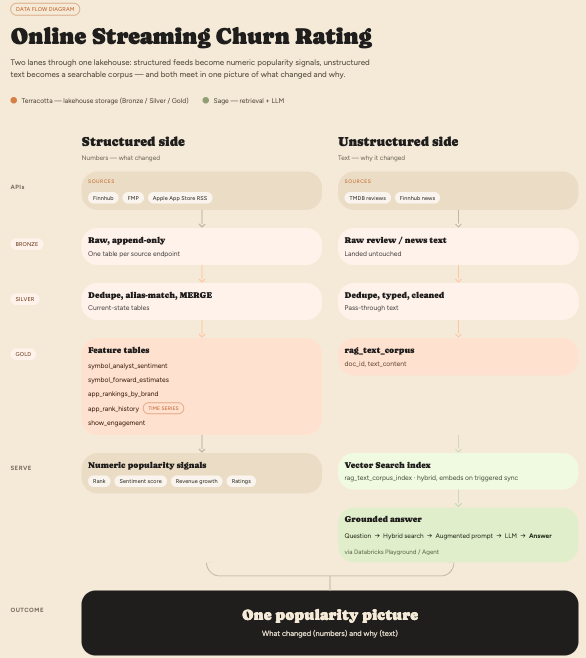
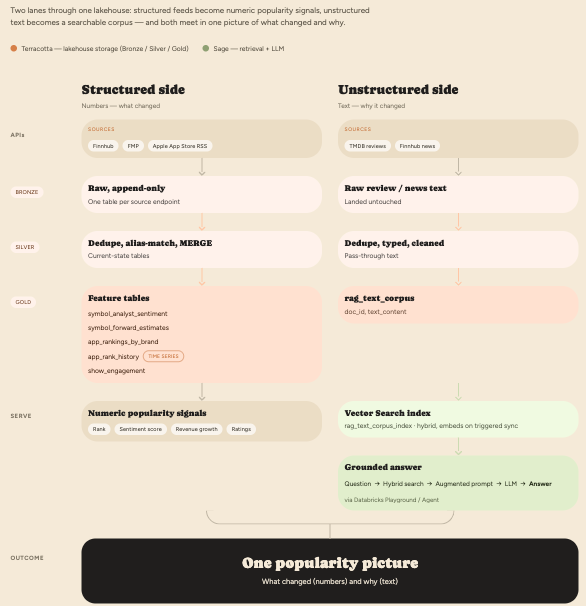
Polish: drop stale diagram title, tidy orchestration wording

diff --git a/README.md b/README.md
@@ -69,7 +69,7 @@ next stage:
 
 `ingest -> bronze -> DQ(bronze) -> silver -> DQ(silver) -> gold -> DQ(gold)`
 
-It runs daily on a schedule and has a green run history across weeks of runs. The RAG corpus and vector index are built (`rag_text_corpus`, `rag_text_corpus_index`); the RAG corpus, vector index, and prediction agent all run end to end (the agent writes rise/hold/fall popularity calls to `predictions`); folding the agent in as a final task in this scheduled job is the remaining step.
+It runs daily on a schedule and has a green run history across weeks of runs. The RAG corpus, vector index, and prediction agent all run end to end (the agent writes rise/hold/fall popularity calls to `predictions`); folding the agent in as a final task in this scheduled job is the remaining step.
 
 ![Workflow DAG](screenshots/workflow_dag.png)
 
